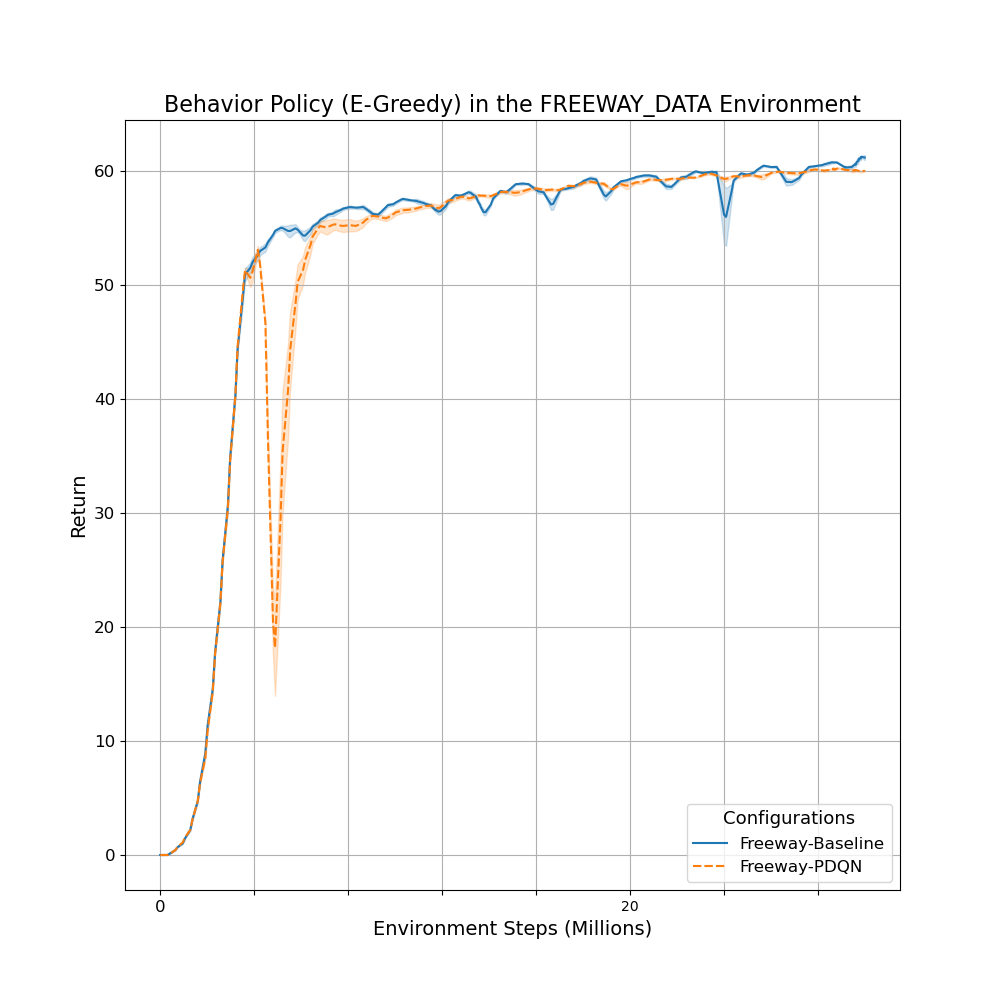
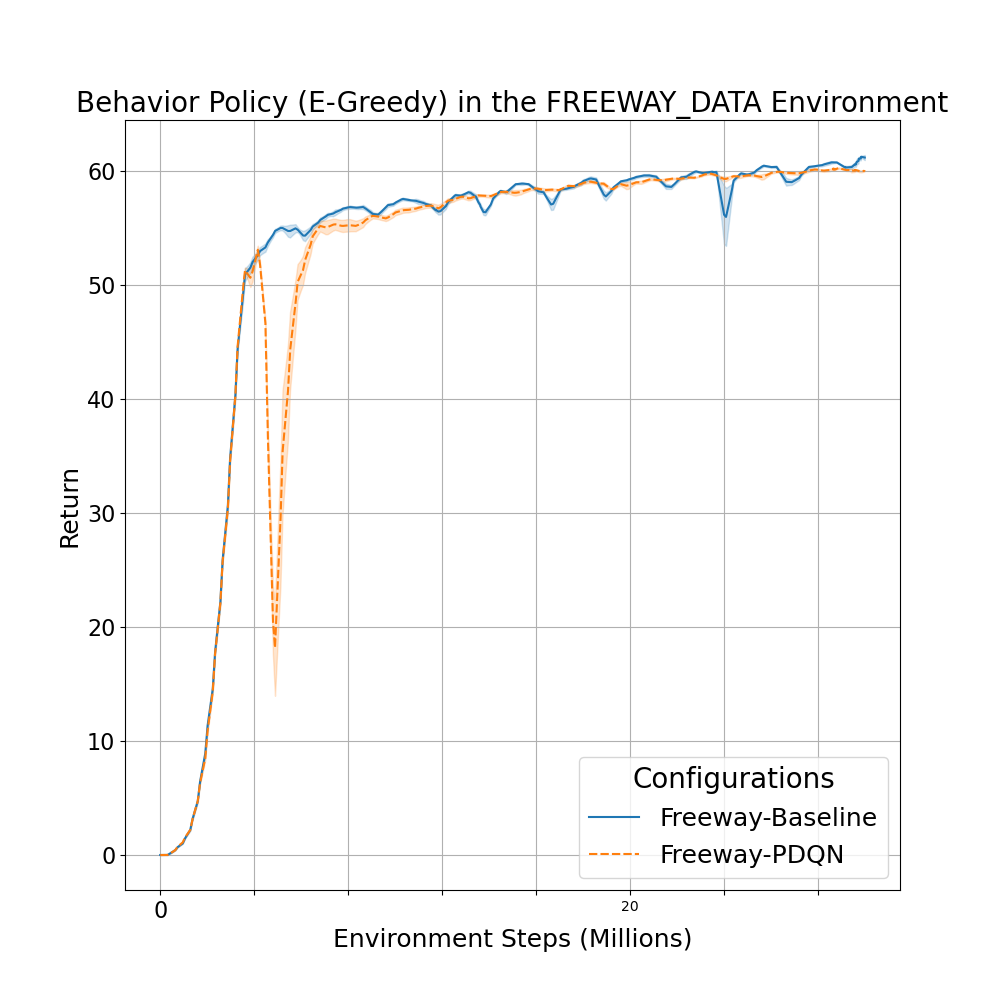
Micro adjustments

diff --git a/make_plot.py b/make_plot.py
@@ -95,19 +95,19 @@ def plot_data(df: pd.DataFrame, policy_type: str, env_name: str):
           sorted_handles, 
           sorted_labels, 
           title='Configurations', 
-          title_fontsize=13, 
-          fontsize=12, 
+          title_fontsize=20, 
+          fontsize=18, 
           loc='lower right'
      )
-     plt.title(f'{policy_type} in the {env_name} Environment', fontsize=16)
-     plt.xlabel('Environment Steps (Millions)', fontsize=14)
-     plt.ylabel('Return', fontsize=14)
+     plt.title(f'{policy_type} in the {env_name} Environment', fontsize=20)
+     plt.xlabel('Environment Steps (Millions)', fontsize=18)
+     plt.ylabel('Return', fontsize=18)
      plt.xticks(
           [0, 5_000_000, 10_000_000, 15_000_000, 20_000_000],
           ['0', '5', '10', '15', '20'],
-          fontsize=12
+          fontsize=16
      )
-     plt.yticks(fontsize=12)
+     plt.yticks(fontsize=16)
      plt.gca().xaxis.set_major_locator(MaxNLocator(integer=True))
      plt.grid(True)
      plt.show()
@@ -116,8 +116,8 @@ def main():
      """
      Main function to select a folder, process data, and generate separate plots for target and behavior policies.
      """
-     # Set the folder path for visualization (e.g., "Datasets/Asterix")
-     folder = input("Enter the folder name (e.g., 'Datasets/Asterix'): ")
+     # Set the folder path for visualization (e.g., datasets/ASTERIX_DATA) ")
+     folder = input("Enter the folder name (e.g., 'datasets/ASTERIX_DATA'): ")
      env_name = folder.split('/')[-1]
      
      if not os.path.exists(folder):

diff --git a/README.md b/README.md
@@ -27,7 +27,7 @@ Our experiments on the MinAtar environment demonstrate that PDQN slightly outper
 | Baseline   | 73.10 ± 0.16    | 98.99 ± 1.33    | 39.72 ± 7.89    | 165.90 ± 1.26   |
 | PDQN       | 72.96 ± 0.21    | 63.41 ± 6.76    | 65.80 ± 0.25    | 167.00 ± 1.14   |
 
-### Results: Baseline vs PDQN (Behaviour)
+### Results: Baseline vs PDQN (Behavior)
 
 |            | Asterix         | Breakout        | Freeway         | Space Invaders  |
 |------------|-----------------|-----------------|-----------------|-----------------|
@@ -36,7 +36,7 @@ Our experiments on the MinAtar environment demonstrate that PDQN slightly outper
 
 ## Plotting Results
 
-### Plots (Behaviour)
+### Plots (Behavior)
 
 | ![Asterix Plot](plots/asterix_behaviour.png) | ![Breakout Plot](plots/breakout_behaviour.png) |
 |----------------------------------------------|-----------------------------------------------|
